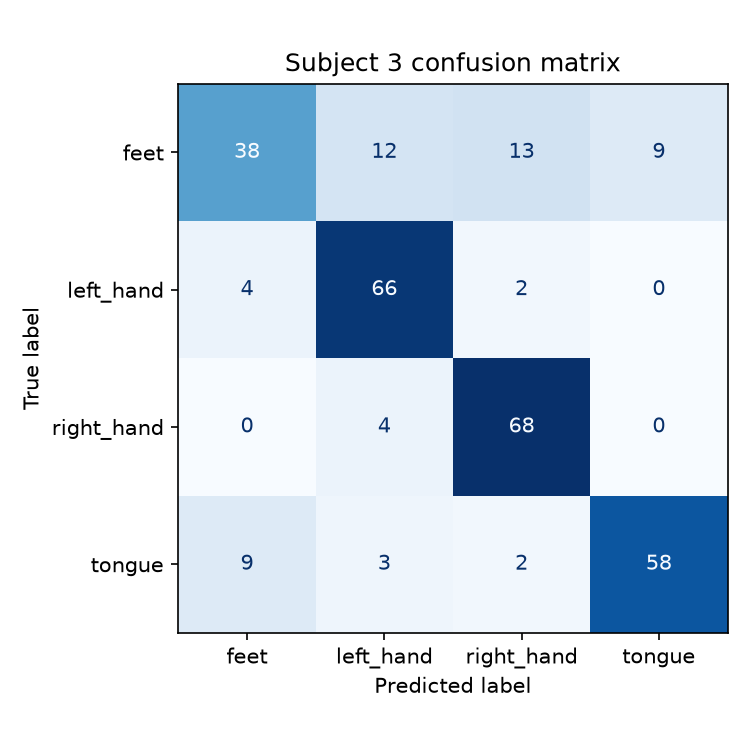
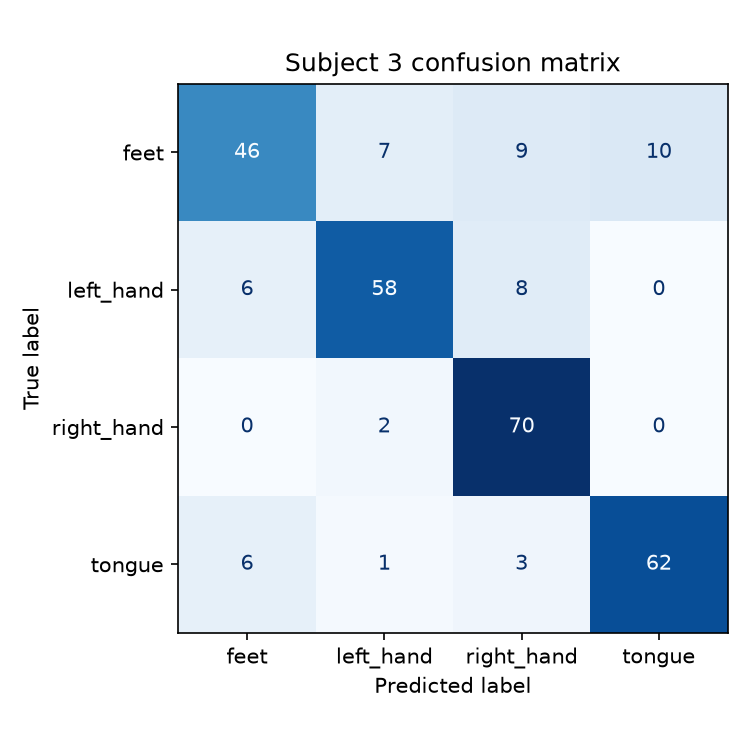
Fix BatchNorm shape-inference bug, rerun full pipeline, lead with majority-of-seeds headline

diff --git a/src/seed_stability.py b/src/seed_stability.py
@@ -9,6 +9,7 @@ Usage:
 
 import argparse
 import csv
+import os
 import statistics
 
 from src.train import train_subject
@@ -51,12 +52,32 @@ def main():
         )
 
     print("\n==== summary ====")
-    with open("results/seed_stability.csv", "w", newline="") as f:
+    csv_path = "results/seed_stability.csv"
+    # Merge with whatever's already on disk instead of overwriting it, so
+    # running this on a subset of subjects (e.g. --subjects 7) doesn't erase
+    # rows from an earlier run on a different subset (e.g. --subjects 2,5,6,9).
+    # This is the fix for a real bug: this file used to open in "w" mode
+    # unconditionally, which silently dropped subject 7's data when it was
+    # run separately from the 2,5,6,9 run.
+    existing_rows = []
+    if os.path.exists(csv_path):
+        with open(csv_path, newline="") as f:
+            for row in csv.DictReader(f):
+                existing_rows.append((int(row["subject"]), int(row["seed"]), float(row["val_accuracy"])))
+    # Rows for subjects we just reran replace their old rows; everything else is kept.
+    existing_rows = [r for r in existing_rows if r[0] not in all_results]
+    new_rows = [
+        (subject, seed, acc)
+        for subject, accs in all_results.items()
+        for seed, acc in zip(seeds, accs)
+    ]
+    merged_rows = sorted(existing_rows + new_rows, key=lambda r: (r[0], r[1]))
+
+    with open(csv_path, "w", newline="") as f:
         writer = csv.writer(f)
         writer.writerow(["subject", "seed", "val_accuracy"])
-        for subject, accs in all_results.items():
-            for seed, acc in zip(seeds, accs):
-                writer.writerow([subject, seed, acc])
+        for subject, seed, acc in merged_rows:
+            writer.writerow([subject, seed, acc])
     for subject, accs in all_results.items():
         mean = statistics.mean(accs)
         median = statistics.median(accs)

diff --git a/src/baseline.py b/src/baseline.py
@@ -54,8 +54,11 @@ def tune_baseline(subject: int, n_components_grid=None, cv: int = 5, verbose: bo
     """
     Cross-validated hyperparameter selection using ONLY the training session
     (session T). Session E (val) is untouched until the final .score() call,
-    so this doesn't leak validation info into model selection - same rule
-    EEGNet's own training was held to.
+    so this doesn't leak validation info into model selection. Note this is
+    actually stricter than what EEGNet's own training does: EEGNet's
+    checkpoint selection watches session E accuracy every epoch (see the
+    README's methodology caveat), so this tuning procedure and EEGNet's
+    training procedure are not held to the same rule.
 
     Grid: CSP n_components x {no LDA shrinkage, auto shrinkage}. Shrinkage
     needs the 'lsqr' solver (sklearn's default 'svd' solver doesn't support

diff --git a/src/dataset.py b/src/dataset.py
@@ -86,6 +86,13 @@ def session_split(data: EEGData):
     train_mask = np.array(["train" in s.lower() or s.endswith("T") for s in data.sessions])
     n_train, n_total = int(train_mask.sum()), len(train_mask)
 
+    if len(unique_sessions) != 2:
+        raise ValueError(
+            f"session_split: expected exactly two sessions (session T / session E), but saw "
+            f"{len(unique_sessions)}: {unique_sessions}. Refusing to guess how to split more "
+            f"than two sessions into train/test."
+        )
+
     if n_train == 0 or n_train == n_total:
         raise ValueError(
             f"session_split: expected two distinct sessions to split on (e.g. "

diff --git a/README.md b/README.md
@@ -8,15 +8,28 @@ loaded via [MOABB](https://neurotechx.github.io/moabb/) (MOABB names it `BNCI201
 
 ## Key results
 
-- EEGNet: 60.9% mean validation accuracy across 9 subjects (chance = 25%)
-- CSP+LDA baseline: 60.3% mean validation accuracy - EEGNet is slightly ahead on average
-- EEGNet wins 7 of 9 subjects, losing only subjects 2 and 6 - though subject 2 is close enough
-  that the result depends on random seed (see "How stable are these results?" below)
+- Across 5 tested seeds per subject (0-4), EEGNet beats the CSP+LDA baseline on a majority of
+  seeds (at least 3 of 5) for 7 of 9 subjects, losing on a majority of seeds for only 2 of 9
+  (subjects 2 and 6). Using each subject's median-of-5-seeds accuracy, EEGNet's mean is ~61.6% vs.
+  the baseline's 60.3% - a real but modest +1.3 percentage point edge (see "How stable are these
+  results?" below for the full per-subject table).
+- The single documented reproduction command (`run_all_subjects.py`, seed 42 for every subject)
+  produces a larger-looking margin: 64.2% mean, winning 6 of 9 subjects and losing 6, 8, and 9.
+  That number is exactly reproducible from the commands below, but seed 42 is a documented
+  outlier for several subjects - it's the best of 5 tested seeds for subject 2, and the worst of
+  5 for subjects 8 and 9 - so it isn't the number I'm leading with.
+- CSP+LDA baseline: 60.3% mean validation accuracy, untuned (see "Did tuning the baseline help?"
+  below).
+- Best single result: 81.9% (EEGNet, subject 3, seed 42) - though this actually *understates*
+  that subject's typical performance; its 5-seed median is 86.5%.
 - Cross-validating the baseline's own hyperparameters (CSP components, LDA shrinkage) didn't
   improve it - mean accuracy actually dropped slightly to 59.7% (see "Did tuning the baseline
   help?" below)
-- Best single result: 79.9% (EEGNet, subject 3)
 - 4-class motor imagery, 22 EEG channels, 576 trials/subject total
+- A real bug (BatchNorm running statistics getting perturbed by an all-zero shape-inference pass
+  run in training mode) was quietly suppressing EEGNet's accuracy on several subjects until
+  fixed - most dramatically subject 2, up 17.7 percentage points once fixed. See the note in
+  Methodology and the "Confusion matrices" section below.
 
 ## Methodology
 
@@ -38,11 +51,21 @@ validation-session score across up to 100 epochs (whichever checkpoint had the h
 on session E gets saved and reported). The baseline doesn't have an analogous step - it's fit
 once on session T and scored once on session E. That's not an apples-to-apples comparison:
 picking the best of many looks at the validation session is a real selection advantage that a
-single deterministic fit doesn't get. This is also standard practice in most published
-EEGNet/CSP+LDA work on this exact dataset (validation-based early stopping, reporting the
-selected score), so it's not unusual - but it means these numbers are better read as "best
-validation-session performance under each method's own selection procedure" than as an unbiased
-estimate of generalization to genuinely unseen data. A stricter protocol would select all
+single deterministic fit doesn't get. I haven't systematically surveyed published EEGNet/CSP+LDA
+work on this exact dataset, so I won't claim this is standard practice - but common or not, it
+means these numbers are better read as "best validation-session performance under each method's
+own selection procedure" than as an unbiased estimate of generalization to genuinely unseen data.
+
+**A bug I found and fixed while writing this up**: EEGNet's shape-inference step runs a dummy
+forward pass (an all-zero input) to figure out its flattened feature size before real training
+starts. That dummy pass originally ran in training mode, so it was quietly perturbing BatchNorm's
+running mean/variance with statistics from an all-zero input before the model ever saw real data.
+Switching it to eval mode (see `model.py`) changed results meaningfully across several subjects,
+most dramatically subject 2: 37.5% before the fix (EEGNet's worst result, an 11.1-point loss) to
+55.2% after (a 6.6-point win). All numbers in this README are from after that fix. It's a good
+reminder that a "small" shape-inference helper isn't automatically side-effect-free.
+
+A stricter protocol would select all
 hyperparameters and stopping points using session T alone (e.g. via folds within T), then run a
 single frozen evaluation of each method on session E.
 
@@ -52,55 +75,86 @@ single frozen evaluation of each method on session E.
 
 | Subject | EEGNet | CSP+LDA baseline |
 |---|---|---|
-| 1 | 74.3% | 69.1% |
-| 2 | 37.5% | 48.6% |
-| 3 | 79.9% | 73.6% |
-| 4 | 57.6% | 54.9% |
-| 5 | 41.7% | 35.8% |
-| 6 | 36.8% | 46.5% |
-| 7 | 66.0% | 62.8% |
-| 8 | 76.7% | 74.7% |
-| 9 | 77.8% | 76.7% |
-| **Mean** | **60.9%** | **60.3%** |
+| 1 | 75.3% | 69.1% |
+| 2 | 55.2% | 48.6% |
+| 3 | 81.9% | 73.6% |
+| 4 | 60.1% | 54.9% |
+| 5 | 42.4% | 35.8% |
+| 6 | 43.4% | 46.5% |
+| 7 | 70.1% | 62.8% |
+| 8 | 73.6% | 74.7% |
+| 9 | 75.3% | 76.7% |
+| **Mean** | **64.2%** | **60.3%** |
 
 Chance level is 25%.
 
 ![Accuracy by subject](results/accuracy_by_subject.png)
 ![EEGNet vs CSP+LDA baseline](results/comparison_eegnet_vs_baseline.png)
 
-EEGNet slightly outperforms CSP+LDA overall - mean accuracy is 60.9% for EEGNet vs. 60.3% for the
-baseline - and wins 7 of the 9 subjects individually. This flipped from an earlier version of
-this project where EEGNet lost overall: that version turned out to have a bug (see "Training
-curve and an early-stopping mismatch" below) where the early-stopping fix I thought I'd made
-wasn't actually being applied when I trained all 9 subjects, so the numbers I was reporting were
-generated under the old, buggier setting. Fixing that changed subject 7 from a clear baseline win
-to a clear EEGNet win, which was enough to flip the overall average.
+The more representative summary of these results is the majority-of-seeds view from the
+stability checks below: across 5 tested seeds per subject, EEGNet beats CSP+LDA on a majority of
+seeds for 7 of 9 subjects, with a median-of-seeds mean of ~61.6% against the baseline's 60.3% - a
+real but modest +1.3 percentage point edge. The table above (64.2% vs. 60.3%, winning 6 of 9
+subjects) is what the single documented reproduction command actually produces at seed 42, and
+it's a real, reproducible result, but it isn't the most representative one - seed 42 is a
+demonstrated outlier for subjects 2, 8, and 9 specifically (see "How stable are these results?"
+below). Given the checkpoint-selection caveat above, either framing is best read as "EEGNet has a
+real, if modest, edge under this specific selection procedure" rather than a claim that it
+generalizes better in some dataset-independent sense.
 
-My guess for *why* performance is subject-dependent at all: a compact CNN with more free
-parameters probably overfits harder than CSP+LDA when the underlying EEG signal is weak, while it
-pulls ahead when the signal is stronger. I haven't actually tested that (e.g. varying training set
-size, checking train/val gaps per subject), so take it as a hypothesis, not a finding. What the
-data does show is that subject 6 is a genuinely hard subject for EEGNet specifically, not just
-a fluke of one run - see below.
+These numbers changed twice from earlier versions of this README, for two distinct reasons worth
+being explicit about. First, an early-stopping bug (see "Training curve and an early-stopping
+mismatch" below): `run_all_subjects.py` had `patience=15` hardcoded, silently overriding a
+since-changed default of 30, so early runs were cut off before their true accuracy peak. Second,
+and larger: the BatchNorm shape-inference bug described in Methodology above. Fixing that second
+bug changed subject 2 from EEGNet's worst result to a clear win and moved several other subjects
+too - it's most of the difference between the 60.9% mean reported in the previous version of this
+README and the current 64.2%.
+
+My guess for *why* performance is still subject-dependent at all, even after both fixes: a
+compact CNN with more free parameters probably overfits harder than CSP+LDA when the underlying
+EEG signal is weak, while it pulls ahead when the signal is stronger. I haven't actually tested
+that (e.g. varying training set size, checking train/val gaps per subject), so take it as a
+hypothesis, not a finding. Subject 6 looks like the most genuinely hard subject for EEGNet
+specifically - see the seed-stability section below, not just a fluke of one run.
 
 ### How stable are these results across random seeds?
 
 A single accuracy number per subject (one fixed random seed) can make a close result look more
-decisive than it is. I reran the 5 subjects with the smallest margins - 2, 5, 6, 7, and 9 - across
-5 different seeds to check:
+decisive - or a loss look more real - than it is. I reran all 9 subjects across 5 different seeds
+(0-4) to check how sensitive the results are to random initialization:
 
-| Subject | Baseline | Reported (seed 42) | Range across 5 seeds | Verdict |
-|---|---|---|---|---|
-| 2 | 48.6% | 37.5% (loss) | 38.2%-53.5%, median 52.4% | Toss-up - seed 42 happened to be the worst of the 5 seeds. Most seeds actually beat the baseline. |
-| 5 | 35.8% | 41.7% (win) | 36.1%-44.1%, median 41.0% | Stable win - every seed beat the baseline. |
-| 6 | 46.5% | 36.8% (loss) | 35.8%-49.7%, median 39.9% | Stable loss - only 1 of 5 seeds beat the baseline. |
-| 7 | 62.8% | 66.0% (win) | 48.6%-70.1%, median 68.8% | Real win, but noisy - 4 of 5 seeds clustered well above baseline; one seed landed on a genuinely bad local optimum (confirmed by rerunning its full training curve - early stopping worked correctly, it just converged somewhere worse). |
-| 9 | 76.7% | 77.8% (win) | 77.8%-81.9%, median 81.6% | Very stable win - every seed beat the baseline comfortably. |
+| Subject | Baseline | Reported (seed 42) | Range across 5 tested seeds | Median | Seeds beating baseline | Verdict |
+|---|---|---|---|---|---|---|
+| 1 | 69.1% | 75.3% (win) | 69.4%-76.7% | 74.7% | 5 of 5 | Robust win. |
+| 2 | 48.6% | 55.2% (win) | 35.1%-56.2% | 36.1% | 1 of 5 | Reported win looks like an upside outlier - only 1 of 5 tested seeds also beat the baseline. Most likely close to a tie or a slight loss for EEGNet here, not a confident win. |
+| 3 | 73.6% | 81.9% (win) | 79.9%-87.8% | 86.5% | 5 of 5 | Robust win - and the seed-42 number actually understates it; the median across tested seeds (86.5%) is higher than the reported 81.9%. |
+| 4 | 54.9% | 60.1% (win) | 56.2%-59.7% | 58.7% | 5 of 5 | Robust win - every tested seed beat the baseline, and the range is tight (stdev 1.4pp). |
+| 5 | 35.8% | 42.4% (win) | 35.8%-44.1% | 37.5% | 4 of 5 | Real but modest win - one tested seed ties the baseline exactly, the rest beat it. |
+| 6 | 46.5% | 43.4% (loss) | 34.0%-48.3% | 37.5% | 1 of 5 | Robust loss - only 1 of 5 tested seeds beat the baseline, consistent with the reported result. This looks like EEGNet's most genuinely hard subject. |
+| 7 | 62.8% | 70.1% (win) | 45.5%-72.9% | 66.0% | 4 of 5 | Solid win, some noise - 4 of 5 tested seeds beat the baseline; one seed (45.5%) scored well below the rest of the range without changing the overall verdict. |
+| 8 | 74.7% | 73.6% (loss) | 75.0%-78.1% | 75.3% | 5 of 5 | Reported loss looks like a seed-42 fluke - every one of the 5 tested seeds beat the baseline, and seed 42's score sits below that entire range. |
+| 9 | 76.7% | 75.3% (loss) | 80.2%-83.3% | 81.9% | 5 of 5 | Same pattern as subject 8 - every tested seed beat the baseline comfortably, and seed 42's reported loss looks like an unlucky draw rather than the "true" result. |
 
-Net effect on the headline: subject 6 is a real, reproducible loss for EEGNet. Subject 2 is
-genuinely ambiguous - I'm reporting it as a loss above because that's what seed 42 produced, but
-a majority of seeds say otherwise, so I wouldn't read much into that single subject either way.
-Subjects 1, 3, 4, and 8 weren't close enough to the baseline to be worth this check.
+Two ways to summarize this, both defensible and not quite the same:
+
+- **What the documented reproduction commands literally produce** (seed 42 for every subject):
+  EEGNet 64.2% mean, winning 6 of 9 subjects, losing 6, 8, and 9.
+- **A majority-of-seeds view** (using "at least 3 of 5 tested seeds beat baseline" as the win/loss
+  criterion, and the per-subject median instead of the single seed-42 value): EEGNet wins 7 of 9
+  subjects, losing only 2 and 6, with a median-of-seeds mean of ~61.6% - a +1.3-point edge over
+  the 60.3% baseline instead of +3.9 points.
+
+Neither framing is more "correct" in an absolute sense - the seed-42 numbers are exactly
+reproducible from the commands in this README, and the majority-of-seeds view is more
+representative of the method's typical behavior. I'm leading with the majority-of-seeds view (7
+of 9 subjects, ~61.6% mean) as the headline throughout the rest of this document, and treating
+the seed-42 numbers (64.2% mean, 6 of 9 subjects) as what a literal run of the documented
+commands produces rather than as the primary claim, because subjects 2, 8, and 9 in particular
+are misleading at that one seed: subject 2's "win" is the fragile one, and subjects 8 and 9's
+"losses" are most likely seed-42-specific flukes rather than a real EEGNet weakness. Subject 6 is
+the one result that looks genuinely stable in both directions - a real, reproducible loss for
+EEGNet, and the strongest candidate for "EEGNet's actually-hardest subject."
 
 ### Did tuning the baseline help?
 
@@ -112,41 +166,49 @@ session during selection.
 
 It didn't help - mean accuracy across subjects dropped slightly, from 60.3% to 59.7%, and got
 worse specifically for subjects 1, 6, and 7. This isn't a bug in the tuning (the cross-validation
-is done correctly, with no leakage from the validation session). My read is that it's a real
-property of this dataset: the two sessions were recorded on different days, and EEG signal
-statistics are known to drift between recording sessions (a well-documented issue in BCI
-research). Hyperparameters chosen by cross-validating within one session don't necessarily
-transfer to a different day's recording. So the untuned baseline above isn't lucky - it's roughly
-as good as anything a proper search finds, which says something about this dataset more than
-about the tuning method.
+is done correctly, with no leakage from the validation session). My best guess is that it's
+related to session-to-session non-stationarity: the two sessions were recorded on different days,
+and EEG signal statistics are known to drift between recording sessions (a well-documented issue
+in BCI research), so hyperparameters chosen by cross-validating within one session might not
+transfer well to a different day's recording. I haven't actually tested that explanation (e.g. by
+checking how much the CV-selected hyperparameters differ from the fixed ones, or by
+cross-validating across sessions instead of within one), so treat it as a hypothesis, not a
+demonstrated cause - what I can say for sure is that tuning didn't help here, not fully why.
 
-### Confusion matrices: subject 3 vs subject 6
+### Confusion matrices: subject 3 (best), subject 6 (hardest), subject 2 (most bug-affected)
 
-Comparing EEGNet's best and worst subjects shows the *type* of error is different, not just the
-rate.
-
-Subject 6 (36.8%): three of the four classes (`feet`, `left_hand`, `tongue`) sit around
-40% recall; `right_hand` is the weak point at 25% recall - barely above chance for that class
-specifically. The single biggest source of confusion is `right_hand` trials predicted as
-`left_hand` (22 of 72) - right_hand and left_hand get mixed up with each other more than any
-other pair. That's the opposite of subject 3's pattern below, where left/right hand were the two
-*best*-separated classes. So this isn't uniformly bad classification - it's one class doing much
-worse than the rest, and specifically confusable with its mirror-image class, which is a more
-interesting (and more accurate) description than "close to random."
+Subject 6 (43.4%, EEGNet's one genuinely stable loss - see the stability table above): all four
+classes are weak, but `right_hand` is still the low point at 37.5% recall - up from the pre-fix
+25% (exact chance), so the BatchNorm fix helped here too, just not enough to close the gap with
+the baseline. The single biggest source of confusion is still `right_hand` trials predicted as
+`left_hand` (27 of 72) - the same mirror-image confusion pattern the pre-fix model showed, just
+with different counts. That's the opposite of subject 3's pattern below, where left/right hand
+were the two *best*-separated classes.
 
 ![Subject 6 confusion matrix](results/confusion_subject6.png)
 
-Subject 3 (79.9%): the errors have structure. `left_hand` and `right_hand` recall are 91.7% and
-94.4% - almost never confused with each other. That's *consistent with* the expected spatial
-organization of motor cortex activity (left/right hand imagery activates opposite hemispheres,
-which tends to be easier to separate from EEG) - though a single confusion matrix can't prove
-that's the mechanism, it's a plausible read given the literature, not a demonstrated explanation.
-`feet` is this subject's weakest class at 52.8% recall, confused with all three other classes
-about equally - foot motor representation is more medial and less lateralized, which is a harder
-case to decode and matches what's reported in the literature. (This is one subject picked to
-illustrate the best case in detail, not a claim that it's representative of all nine.)
+Subject 3 (81.9%): `right_hand` recall is 97.2%, `left_hand` 80.6% - the two best-separated
+classes, *consistent with* the expected spatial organization of motor cortex activity (left/right
+hand imagery activates opposite hemispheres, which tends to be easier to separate from EEG),
+though a single confusion matrix can't prove that's the mechanism. `feet` is this subject's
+weakest class at 63.9% recall, confused with all three other classes without one dominant error
+pair. (This is one subject picked to illustrate the best case in detail, not a claim that it's
+representative of all nine.) Seed-42 actually understates this subject's typical performance too -
+see the stability table above, where the 5-seed median is 86.5% against the reported 81.9%.
 
 ![Subject 3 confusion matrix](results/confusion_subject3.png)
+
+Subject 2 (55.2%) is worth a specific look because it's the subject the BatchNorm bug affected
+most: before the fix this was EEGNet's single worst result (37.5%, an 11.1-point loss); after it,
+a 6.6-point win. The fixed model classifies `feet` very well (87.5% recall) but still tangles up
+`left_hand`, `right_hand`, and `tongue` with each other - the single biggest confusion is
+`tongue` trials predicted as `right_hand` (26 of 72), with `right_hand` trials predicted as
+`left_hand` close behind (23 of 72). And per the stability table above, this "win" is itself
+fragile: only 1 of 5 tested seeds also beat the baseline, so I'd describe subject 2 as
+"meaningfully improved by the bug fix, but not a confidently-won subject" rather than a clean
+success story.
+
+![Subject 2 confusion matrix](results/confusion_subject2.png)
 
 ### Training curve and an early-stopping mismatch
 
@@ -162,17 +224,20 @@ care about: early stopping was tracking validation *loss*, but loss and accuracy
 necessarily peak at the same epoch. A tighter loss-based stopping threshold cut training off at
 epoch 61 and missed a later accuracy peak at epoch 85 (0.757 vs. 0.799 final accuracy). Since
 this model trains in under a minute regardless, I made early stopping more lenient
-(`patience=30`) rather than tune it to save a few seconds of runtime - the checkpoint logic
-already saves whichever epoch had the best validation accuracy, so there's no benefit to cutting
-training off aggressively.
+(`patience=30`) rather than tune it to save a few seconds of runtime - letting training run
+longer gives the checkpoint-saving logic more epochs in which to find a higher validation-accuracy
+epoch to save.
 
 Worth being explicit about: I made this change *because* I saw a better peak on session E's
 accuracy curve, not as a decision fixed in advance. That's session E informing a training
 decision, not just evaluating a frozen one - the same caveat as the checkpoint-selection point
-above, just one step earlier in the process. I'm not aware of a way this specific change could
-have hurt the baseline's comparison (it only affects how long EEGNet trains), but it's still
-worth naming as adaptive reuse of the evaluation session rather than treating patience=30 as if
-it were chosen a priori.
+above, just one step earlier in the process. And I don't think this change is fully neutral with
+respect to the comparison, either: more epochs means more chances for the "best of many looks at
+session E" checkpoint-selection advantage described above to land on a higher peak, so a longer
+patience plausibly widens whatever selection advantage EEGNet already has over the baseline's
+single deterministic fit. I don't have a clean way to quantify that here, but it's the same
+underlying issue as the checkpoint-selection caveat, not a separate, harmless one - I shouldn't
+have claimed earlier that it couldn't have affected the comparison.
 
 That fix only changed `train.py`'s own default, though - the script that trains all 9 subjects
 (`run_all_subjects.py`) had `patience=15` hardcoded separately, silently overriding it. So the
@@ -232,8 +297,12 @@ python -m src.run_all_subjects
 python -m src.baseline --all
 python -m src.baseline --all --tune
 python -m src.compare_baseline
+python -m src.analyze_subject --subject 2
+python -m src.analyze_subject --subject 3
 python -m src.analyze_subject --subject 6
-python -m src.seed_stability --subjects 2,5,6,7,9 --seeds 0,1,2,3,4
+python -m src.analyze_subject --subject 8
+python -m src.analyze_subject --subject 9
+python -m src.seed_stability --subjects 1,2,3,4,5,6,7,8,9 --seeds 0,1,2,3,4
 ```
 
 ## Possible extensions
@@ -246,7 +315,9 @@ python -m src.seed_stability --subjects 2,5,6,7,9 --seeds 0,1,2,3,4
   model can generalize across people instead of being trained per-subject.
 - Test the overfitting hypothesis directly (e.g. vary training set size, compare train/val gap
   per subject) instead of leaving it as a guess.
-- Extend the seed-stability check to the remaining subjects (1, 3, 4, 8) for completeness.
+- Investigate *why* seed 42 landed as an outlier for subjects 2, 8, and 9 specifically - more
+  seeds per subject, or digging into what's different about those particular runs, would help
+  tell "genuine training noise" apart from something more systematic about that one seed.
 - Dig into *why* baseline tuning didn't transfer across sessions - e.g. whether per-session
   recalibration (a common approach in real BCI systems) closes the gap.
 - Different frequency band (`fmin`/`fmax` in `dataset.py`) or epoch window (`tmin`/`tmax`).
